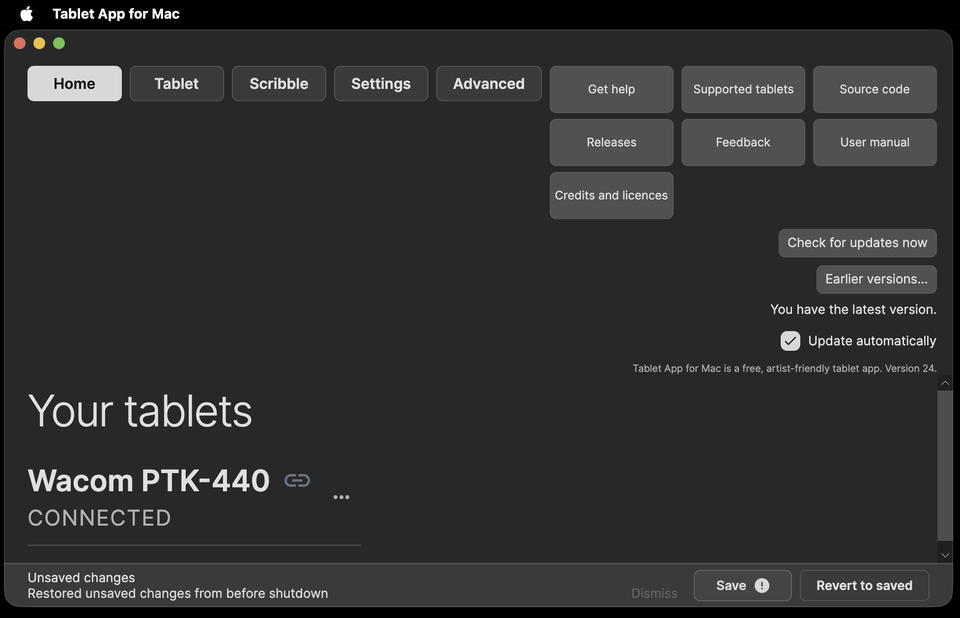
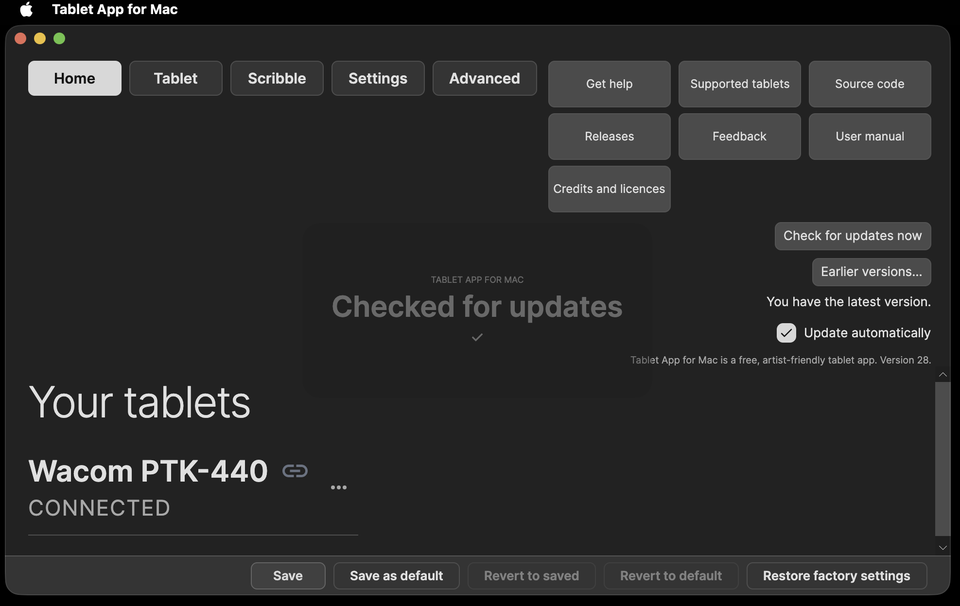
Site: Help pictures for Version 28 (Pen with Radial Menu Settings, Home) from v16-source 0bef541
Claude-Session: https://claude.ai/code/session_01KKNef7UtBnnRDnrPVj11MJ

diff --git a/help/index.html b/help/index.html
@@ -49,7 +49,7 @@
 <li>Only one copy runs. Opening the app again brings the running copy to the front.</li>
 <li>To change the language, choose it under <strong>Settings › System › Language</strong>. <strong>Match system</strong> follows your Mac's language.</li>
 </ul><p class="backtop"><a href="#chapters">↑ Back to chapters</a></p></section>
-<section class="chap" id="home" aria-labelledby="home-h"><h2 id="home-h">Home</h2><figure><picture><source type="image/webp" srcset="/tablet-app-for-mac/assets/manual/02-home-overview.webp"><source type="image/png" srcset="/tablet-app-for-mac/assets/manual/02-home-overview.png"><img src="/tablet-app-for-mac/assets/manual/02-home-overview.webp" alt="Home" width="960" height="618" loading="lazy" decoding="async"></picture><figcaption>Home</figcaption></figure>
+<section class="chap" id="home" aria-labelledby="home-h"><h2 id="home-h">Home</h2><figure><picture><source type="image/webp" srcset="/tablet-app-for-mac/assets/manual/02-home-overview.webp"><source type="image/png" srcset="/tablet-app-for-mac/assets/manual/02-home-overview.png"><img src="/tablet-app-for-mac/assets/manual/02-home-overview.webp" alt="Home" width="960" height="606" loading="lazy" decoding="async"></picture><figcaption>Home</figcaption></figure>
 <ul>
 <li><strong>Your tablets</strong>: one card per connected or remembered tablet. Click a card to open its settings.</li>
 <li>Card <strong>⋯</strong> menu: <strong>Open tablet settings</strong>, <strong>Forget this tablet</strong>.</li>
@@ -64,7 +64,7 @@
 <li><strong>Refresh</strong> reloads the tablet's settings from the driver.</li>
 <li>Footer: <strong>Options…</strong> (Settings), <strong>?</strong> (this manual), <strong>Report a problem or send a recommendation…</strong> (see Report a problem or send a recommendation).</li>
 </ul><p class="backtop"><a href="#chapters">↑ Back to chapters</a></p></section>
-<section class="chap" id="tablet-pen" aria-labelledby="tablet-pen-h"><h2 id="tablet-pen-h">Tablet › Pen</h2><figure><picture><source type="image/webp" srcset="/tablet-app-for-mac/assets/manual/05-pen-tool-row.webp"><source type="image/png" srcset="/tablet-app-for-mac/assets/manual/05-pen-tool-row.png"><img src="/tablet-app-for-mac/assets/manual/05-pen-tool-row.webp" alt="Pen" width="960" height="1244" loading="lazy" decoding="async"></picture><figcaption>Pen</figcaption></figure>
+<section class="chap" id="tablet-pen" aria-labelledby="tablet-pen-h"><h2 id="tablet-pen-h">Tablet › Pen</h2><figure><picture><source type="image/webp" srcset="/tablet-app-for-mac/assets/manual/05-pen-tool-row.webp"><source type="image/png" srcset="/tablet-app-for-mac/assets/manual/05-pen-tool-row.png"><img src="/tablet-app-for-mac/assets/manual/05-pen-tool-row.webp" alt="Pen" width="960" height="1370" loading="lazy" decoding="async"></picture><figcaption>Pen</figcaption></figure>
 <table><tr><th>Control</th><th>Default</th><th>Function</th></tr>
 <tr><td>Tilt › Turn tilt off</td><td>Off</td><td>Stops sending tilt. Shared with the eraser.</td></tr>
 <tr><td>Tip Feel</td><td>Middle (linear)</td><td>Soft to Firm pressure curve.</td></tr>
@@ -232,7 +232,7 @@
 <li><strong>Update automatically</strong> is an optional setting just below it. It is off unless you turn it on. When it is on, the app downloads a new stable version by itself, then asks for OK before installing. It never installs a BETA by itself.</li>
 <li>To go back to an earlier version, click <strong>Earlier versions…</strong> on <strong>Home</strong> and choose one of the two most recent stable versions older than the one you have. This works from a stable version and from a BETA. Your settings stay.</li>
 </ul>
-<figure><picture><source type="image/webp" srcset="/tablet-app-for-mac/assets/manual/85-home-updates.webp"><source type="image/png" srcset="/tablet-app-for-mac/assets/manual/85-home-updates.png"><img src="/tablet-app-for-mac/assets/manual/85-home-updates.webp" alt="Home on Version 24: You have the latest version. Check for updates now, Earlier versions…, and Update automatically are on the right." width="960" height="618" loading="lazy" decoding="async"></picture><figcaption>Home on Version 24: You have the latest version. Check for updates now, Earlier versions…, and Update automatically are on the right.</figcaption></figure>
+<figure><picture><source type="image/webp" srcset="/tablet-app-for-mac/assets/manual/85-home-updates.webp"><source type="image/png" srcset="/tablet-app-for-mac/assets/manual/85-home-updates.png"><img src="/tablet-app-for-mac/assets/manual/85-home-updates.webp" alt="Home on Version 28: You have the latest version. Check for updates now, Earlier versions…, and Update automatically are on the right." width="960" height="606" loading="lazy" decoding="async"></picture><figcaption>Home on Version 24: You have the latest version. Check for updates now, Earlier versions…, and Update automatically are on the right.</figcaption></figure>
 <ul>
 <li>The two permissions are asked for only at the first installation. Updates from Version 18 on keep them.</li>
 <li><strong>Coming from Version 6:</strong> install Version 7 or later by hand once (see Install and first launch). Then do the one-time step for Version 17 or older above.</li>
